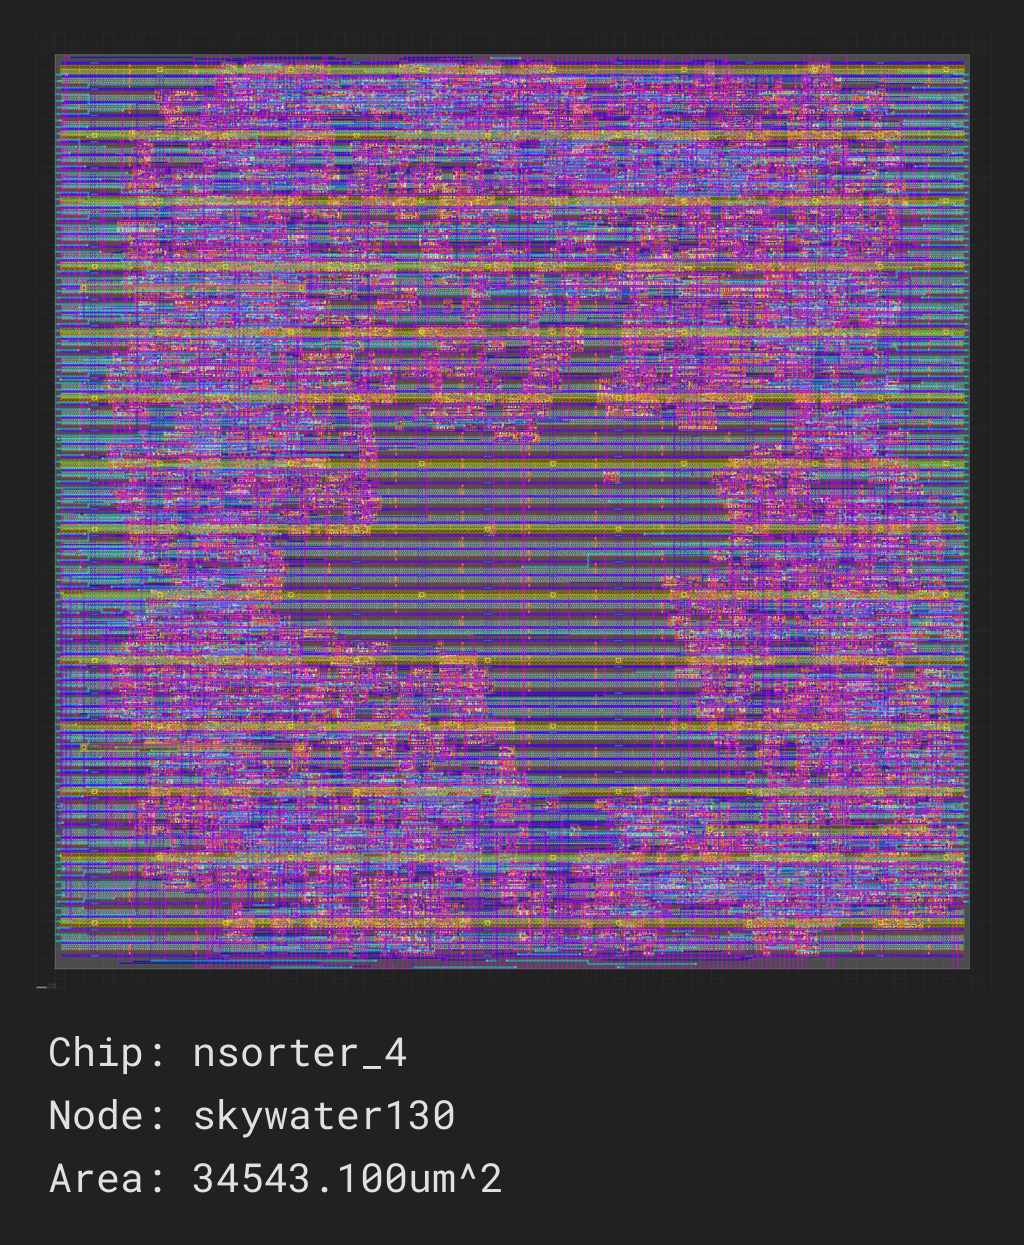
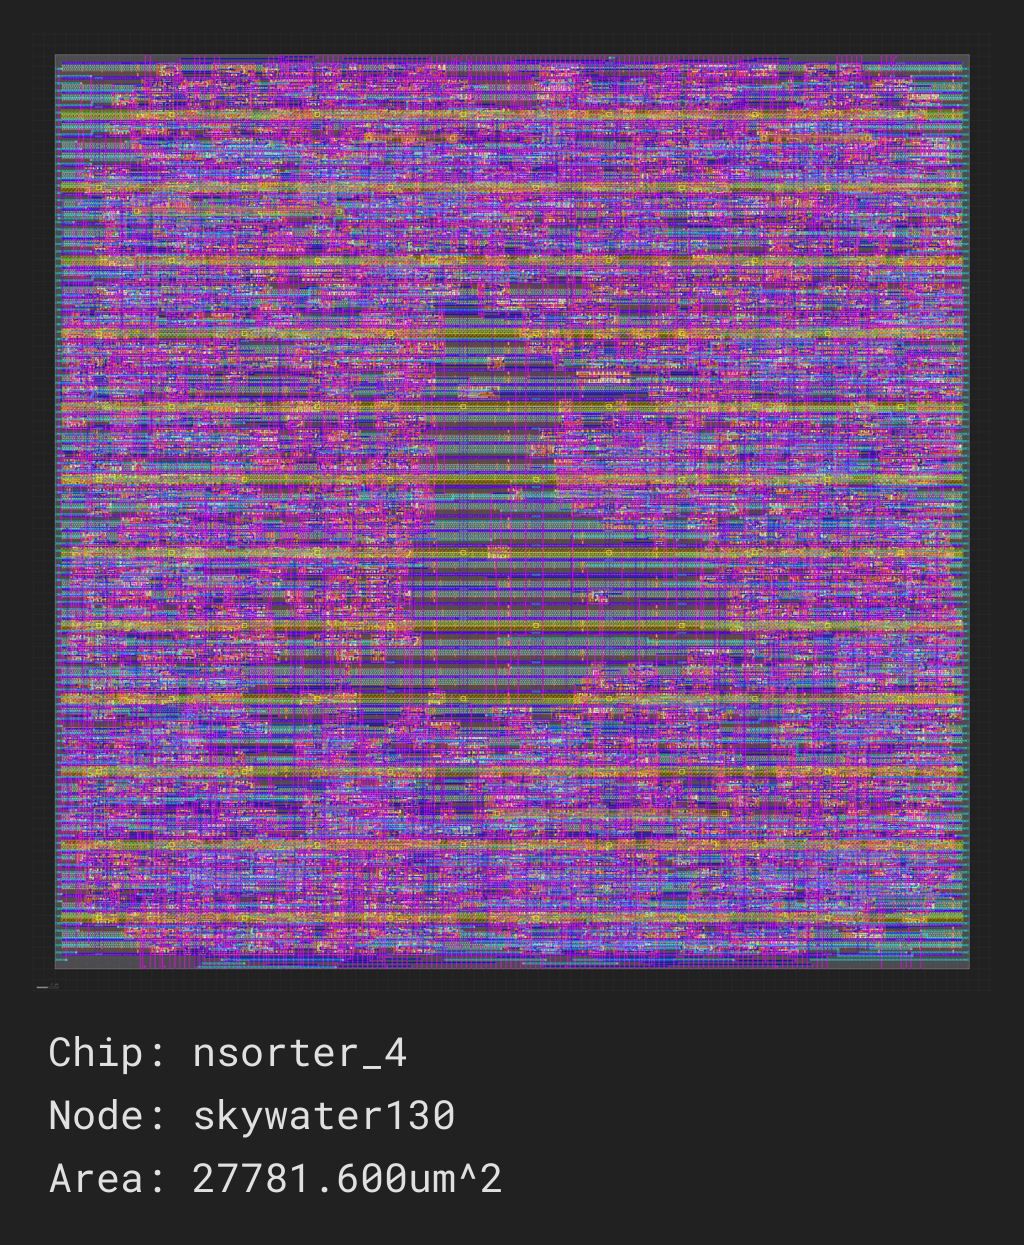
update readme

diff --git a/README.md b/README.md
@@ -12,33 +12,43 @@ sorting networks).
 
 ## Generator
 
-To generate the N-sorter for a specifc value of `N`, run: `ruby mlnsgen/mlnsgen.rb <N>` (e.g. `ruby mlnsgen/mlnsgen.rb 4`).
-The current algorithm is pretty dumb, so it is too slow for values of N much higher than 8 (and furthermore the resulting
-Verilog code that implements such wide N-sorters becomes impractically large for synthesis tools to handle efficiently).
+To generate the N-sorter for a specifc value of `N`, run: `ruby mlnsgen/mlnsgen.rb <N>`
+(e.g. `ruby mlnsgen/mlnsgen.rb 4`).
+The current algorithm is pretty dumb (it performs an exhaustive search, i.e. uses superlinear
+time), so it is too slow for values of N much higher than 8 (and furthermore the resulting
+Verilog code that implements such wide N-sorters becomes impractically large for synthesis
+tools to handle efficiently).
 
 ## Generated sorters
 
 The files `nsorter_*.v` contain the generated n-sorters.
 
-Just to provide a rough idea, using [Yosys][Y] `synth` we get the following gate counts (for 64 bit values):
+Just to provide a rough idea, these are the currently available generated n-sorters and their characteristics:
 
-|   N |  Gates |
-| --: | -----: |
-|   2 |    447 |
-|   3 |   1736 |
-|   4 |   3543 |
-|   5 |   6366 |
-|   6 |  12551 |
-|   7 |  41387 |
-|   8 | 250448 |
+|   N | Comparisons | Orderings | Gates[^1] | Area[^2] µm² |
+| --: | ----------: | --------: | --------: | -----------: |
+|   2 |           1 |         2 |       447 |       6906.6 |
+|   3 |           3 |         6 |      1736 |      14589.0 |
+|   4 |           6 |        24 |      3543 |      27781.6 |
+|   5 |          10 |       120 |      6366 |            ? |
+|   6 |          15 |       720 |     12551 |            ? |
+|   7 |          21 |      5040 |     41387 |            ? |
+|   8 |          28 |     40320 |    250448 |            ? |
+|   9 |          36 |    362880 |         ? |            ? |
 
-SiliconCompiler yields the following for the 4-sorter:
+[SiliconCompiler][SC] yields the following for the 4-sorter:
 
-![4-sorter synthesized on the skywater130 process](nsorter_4.png)
+<a href=nsorter_2.png><img src=nsorter_2.png alt="4-sorter synthesized on the skywater130 process" width="20%" align=center></a>
+<a href=nsorter_3.png><img src=nsorter_3.png alt="4-sorter synthesized on the skywater130 process" width="20%" align=center></a>
+<a href=nsorter_4.png><img src=nsorter_4.png alt="4-sorter synthesized on the skywater130 process" width="20%" align=center></a>
 
 ## License
 
 [MIT](LICENSE)
 
+[^1]: [Yosys][Y] 0.33, `synth`; 64 bit values
+[^2]: [SiliconCompiler][SC] 0.30.0, skywater130 process, density 50; 64 bit values
+
 [SN]: https://en.wikipedia.org/wiki/Sorting_network
 [Y]: https://yosyshq.net/yosys/
+[SC]: https://www.siliconcompiler.com/
